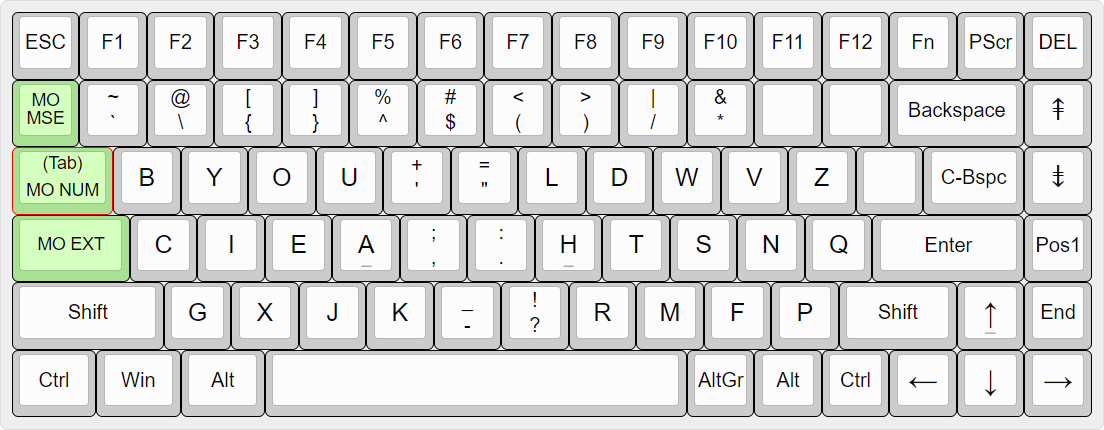
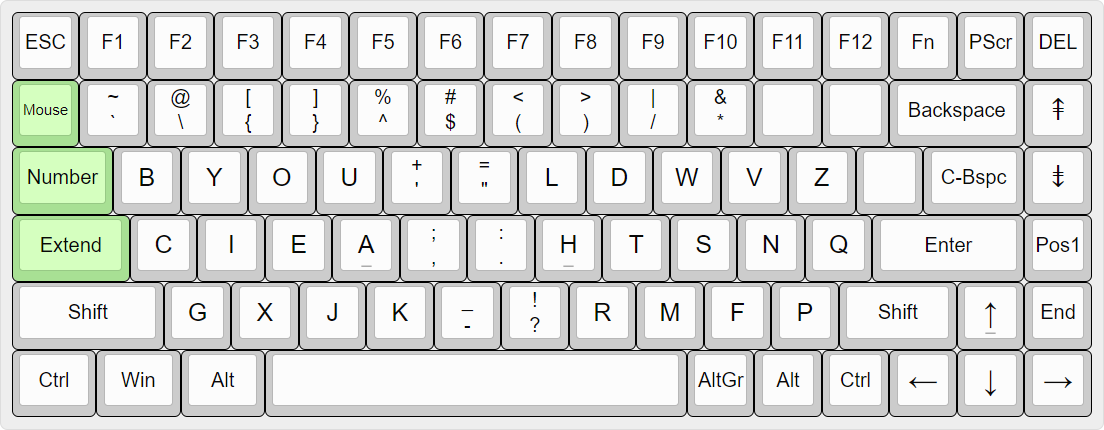
Update keymap images

Changed region(s): [[0.0, 0.3628, 0.0924, 0.4535], [0.0308, 0.5442, 0.0924, 0.6047], [0.0, 0.2116, 0.0616, 0.3023]]

diff --git a/keyboards/nuphy/air75_v2/ansi/keymaps/frank/readme.md b/keyboards/nuphy/air75_v2/ansi/keymaps/frank/readme.md
@@ -5,7 +5,7 @@
 
 ## Umlauts
 
-Hold the key for a little moment.
+Hold one of the keys [auoAUOs] for a little moment. (See `config.h` the constant `TAPPING_TERM`)
 This functionality requires  to have on Windows the application WinCompose installed.
 It shall be configured to react on right-alt as compose key.
 
@@ -25,21 +25,21 @@ It shall be configured to react on right-alt as compose key.
 
 Engram for the normal letters.
 For the symbols, another ordering is chosen, because the pairs `()` and `<>` are harder to press with shifted keys on different hands.
-The ordering does now have some similarities to QWERTY (grav, tilde, at, percent).
-The keys far away from the right pinky are unused.
+The ordering does now have some similarities to QWERTY (grav, tilde, at, percent are on the original position).
+Those keys that are far away from the right pinky - stay unused.
 
-## Navigation Layer
+## Extend Layer
 
-![image Layer Navigation](L5.png)
+![image Extend Layer](L5.png)
 
 Cursor, Page up/down, tab, esc, bspc, ins, del, caps .. all an the right hand.
-The left hand, while pressing the layer activation, can still press modifiers.
+The left hand, while pressing the layer activation, can still press modifiers. Note the key left of the space bar is now also the windows key, to be more easy to press while the "Extend" key is held.
+E.g. Windows+Arrow to move a window.
 
-The usual undo, cut, copy, paste are here. Instead of Ctrl-X, now you press Ext-X.
+The usual undo, cut, copy, paste are at their original QWERTY positions. Instead of Ctrl-X, now you press Ext-X.
 
-The Function row does now have the upper numbers F13..F24 and they can be bound in applications.
+The Function row does now have the upper half of function keys `F13` .. `F24` and they can be bound in applications.
 
-The left alt on bottom row in now WIN key, so it can be easier pressed with the thumb. E.g. Windows+Arrow to move a window.
 
 ## Number layer
 
